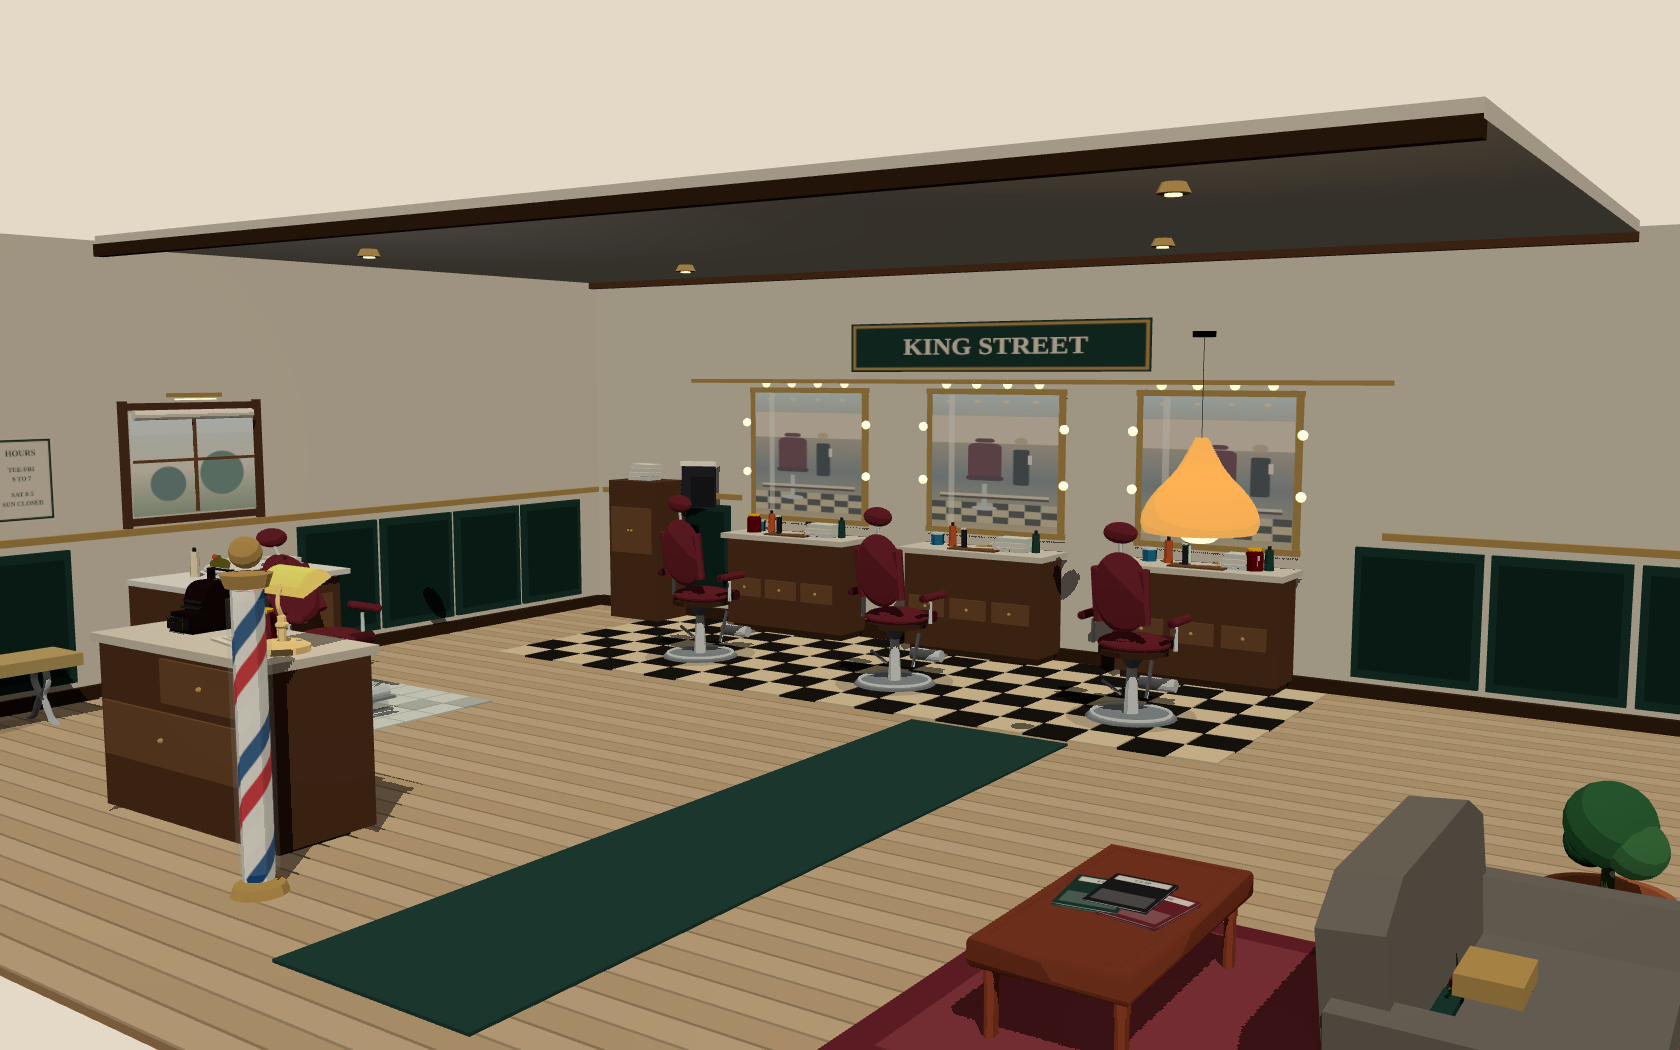
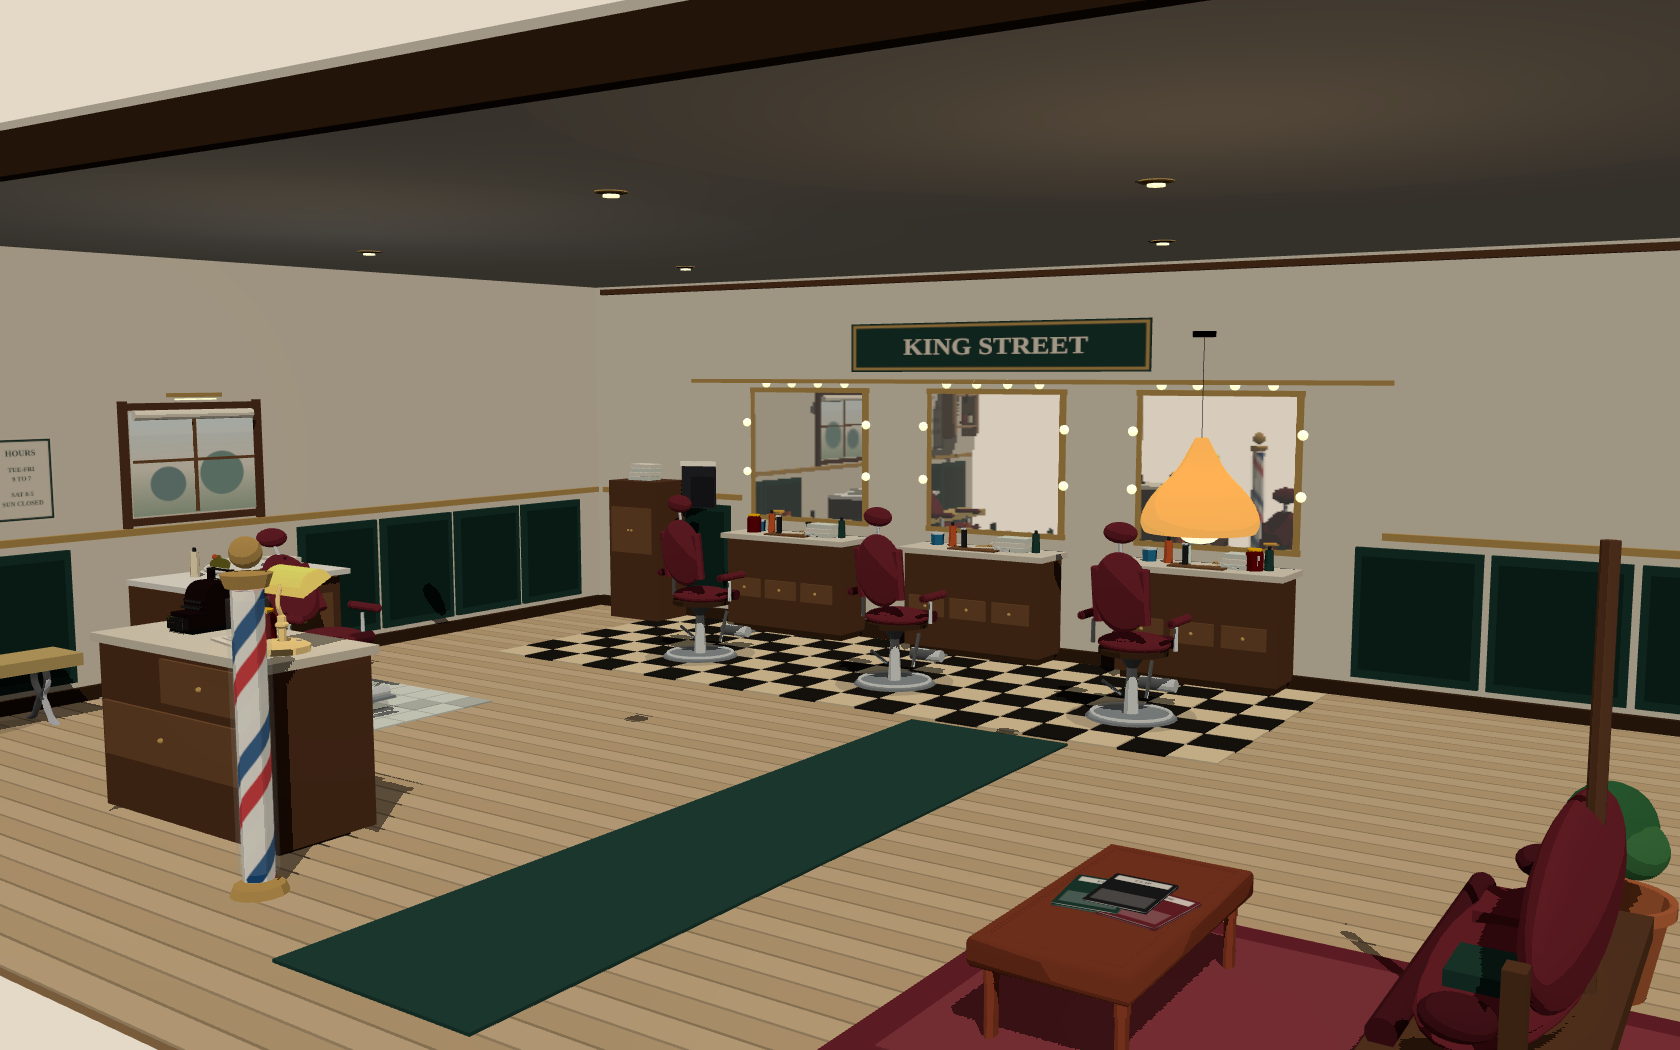
Finish the ceiling, even the station wall, and seat the waiting area.
The roof is a full lid with a fascia on the open edges. Station glass reflects the live room, the back wall no longer takes the jagged chair shadow, and a wood-and-leather settee replaces the gray couch bake.

diff --git a/experiments/indoor-20261113/barbershop/barbershop.js b/experiments/indoor-20261113/barbershop/barbershop.js
@@ -16,6 +16,17 @@ const towel = () => toon('#f7f3ea');
 const bulbMat = () => toon('#fff4d4', { emissive: '#ffe6b0', emissiveIntensity: 1.15 });
 
 const texCache = new Map();
+let stationMirrorRT = null;
+
+function stationMirrorTarget() {
+  if (!stationMirrorRT) {
+    stationMirrorRT = new THREE.WebGLRenderTarget(768, 768, { depthBuffer: true, stencilBuffer: false });
+    stationMirrorRT.texture.colorSpace = THREE.SRGBColorSpace;
+    stationMirrorRT.texture.generateMipmaps = false;
+    stationMirrorRT.texture.minFilter = THREE.LinearFilter;
+  }
+  return stationMirrorRT;
+}
 
 function canvasTex(key, w, h, draw) {
   if (texCache.has(key)) return texCache.get(key);
@@ -349,20 +360,35 @@ function shopWindow(g, wallX) {
   quiet(glow);
 }
 
-function ceilingBay(g, H) {
-  const plaster = toon('#f4eee4');
-  quiet(addBox(g, 8.6, 0.07, 4.7, plaster, -0.45, H - 0.04, -1.05), true);
-  trim(addBox(g, 8.6, 0.08, 0.07, walnutDark(), -0.45, H - 0.1, 1.28));
-  trim(addBox(g, 8.6, 0.06, 0.06, walnut(), -0.45, H - 0.1, -3.38));
-  const cans = [[-2.55, -2.15], [1.35, -2.15], [-3.4, 0.15], [2.4, 0.35]];
+function ceilingBay(g, W, D, H) {
+  const plaster = toon('#f3eee6');
+  const y = H - 0.05;
+  const z0 = -D / 2 + 0.16;
+  const z1 = D / 2 - 0.06;
+  const x0 = -W / 2 + 0.16;
+  const x1 = W / 2 - 0.04;
+  const depth = z1 - z0;
+  const width = x1 - x0;
+  const zc = (z0 + z1) / 2;
+  const xc = (x0 + x1) / 2;
+  quiet(addBox(g, width, 0.08, depth, plaster, xc, y, zc), true);
+  trim(addBox(g, width, 0.16, 0.07, walnutDark(), xc, y - 0.08, z1));
+  trim(addBox(g, 0.07, 0.16, depth, walnutDark(), x1, y - 0.08, zc));
+  trim(addBox(g, width - 0.2, 0.05, 0.05, walnut(), xc, H - 0.14, z0 + 0.02));
+  const cans = [[-2.55, -2.15], [1.35, -2.15], [-3.4, 0.15], [2.4, 0.55], [0.2, 1.6]];
   for (const [x, z] of cans) {
-    addCyl(g, 0.055, 0.08, 0.05, brass(), x, H - 0.1, z, 14);
-    quiet(addCyl(g, 0.04, 0.04, 0.012, toon('#fff1c8', { emissive: '#ffe6b0', emissiveIntensity: 1.15 }), x, H - 0.13, z, 12));
+    addCyl(g, 0.055, 0.08, 0.05, brass(), x, y - 0.02, z, 14);
+    quiet(addCyl(g, 0.04, 0.04, 0.012, toon('#fff1c8', { emissive: '#ffe6b0', emissiveIntensity: 1.15 }), x, y - 0.06, z, 12));
   }
 }
 
 function makeShell(layout) {
   const g = makeCutawayShell(layout, { ceiling: false });
+  const backWall = g.getObjectByName('back-wall');
+  if (backWall) {
+    backWall.userData.noShadow = true;
+    backWall.userData.receiveShadow = false;
+  }
   const { width: W, depth: D, height: H } = layout.meta.room;
   const innerB = -D / 2 + 0.1;
   const innerL = -W / 2 + 0.1;
@@ -402,7 +428,7 @@ function makeShell(layout) {
   board.rotation.y = Math.PI / 2;
   g.add(board);
 
-  ceilingBay(g, H);
+  ceilingBay(g, W, D, H);
   const sign = new THREE.Mesh(new THREE.PlaneGeometry(2.7, 0.4), signBoard());
   sign.position.set(-0.7, 2.5, -3.72);
   g.add(sign);
@@ -562,7 +588,13 @@ function station(g, rec, anchors, variant) {
   const mh = mirrorTop - mirrorBottom;
   const wallZ = -3.78;
 
-  addBox(g, 1.16, mh, 0.02, mirrorTexture(variant), x, my, wallZ);
+  const glassMat = toon('#d5e2e8');
+  const glass = addBox(g, 1.16, mh, 0.018, glassMat, x, my, wallZ + 0.012);
+  glass.name = 'station-mirror';
+  glass.userData.mirror = true;
+  glass.userData.mirrorMatrix = new THREE.Matrix4();
+  glass.userData.mirrorMap = stationMirrorTarget().texture;
+  quiet(glass);
   addBox(g, 1.26, 0.045, 0.04, brass(), x, mirrorTop + 0.02, wallZ);
   addBox(g, 1.26, 0.045, 0.04, brass(), x, mirrorBottom - 0.02, wallZ);
   addBox(g, 0.045, mh + 0.08, 0.04, brass(), x - 0.6, my, wallZ);
@@ -691,16 +723,34 @@ function foliage(g, x, z) {
   addSphere(g, 0.09, toon('#245833'), x - 0.07, 0.55, z - 0.04);
 }
 
-function cushions(g) {
-  // Sofa bounds from the bake: seat toward x=3.72, back toward x=4.58, cushion line near y=0.36.
-  const pads = [
-    [3.92, 0.33, 1.68, '#6e2430'],
-    [3.92, 0.33, 2.02, '#1d3f38'],
-    [4.1, 0.42, 1.85, '#c6a15e'],
-  ];
-  for (const [x, y, z, color] of pads) {
-    addBox(g, 0.2, 0.07, 0.26, toon(color), x, y, z);
+function waitingSettee(g, sofa) {
+  // The catalog couch is a gray modern bake. This wood-and-leather settee
+  // occupies the same footprint and faces -X, toward the coffee table.
+  const x = sofa.position[0];
+  const z = sofa.position[2];
+  const seatY = 0.46;
+  const len = 1.58;
+  const depth = 0.58;
+  for (const sx of [-0.16, 0.2]) {
+    for (const sz of [-0.68, 0.68]) {
+      addCyl(g, 0.032, 0.038, seatY - 0.08, walnutDark(), x + sx, (seatY - 0.08) / 2, z + sz, 10);
+    }
   }
+  addBox(g, depth, 0.08, len, walnut(), x + 0.02, seatY - 0.06, z);
+  const cushion = addSphere(g, 0.22, leather(), x - 0.02, seatY + 0.02, z, 24);
+  cushion.scale.set(1.05, 0.28, 3.35);
+  const roll = addCyl(g, 0.045, 0.045, len - 0.16, leatherDeep(), x - 0.22, seatY + 0.01, z, 14);
+  roll.rotation.x = Math.PI / 2;
+  const back = addSphere(g, 0.2, leather(), x + 0.16, seatY + 0.28, z, 24);
+  back.scale.set(0.55, 1.35, 3.7);
+  addCyl(g, 0.028, 0.028, len + 0.06, walnut(), x + 0.2, seatY + 0.52, z, 12);
+  for (const sz of [-1, 1]) {
+    const arm = addSphere(g, 0.09, leatherDeep(), x - 0.02, seatY + 0.12, z + sz * 0.74, 16);
+    arm.scale.set(1.15, 0.7, 0.85);
+    addBox(g, 0.06, 0.28, 0.08, walnut(), x + 0.12, seatY + 0.16, z + sz * 0.76);
+  }
+  addBox(g, 0.22, 0.06, 0.28, toon('#6e2430'), x - 0.04, seatY + 0.08, z - 0.28);
+  addBox(g, 0.2, 0.05, 0.24, toon('#1d3f38'), x - 0.02, seatY + 0.1, z + 0.32);
 }
 
 function magazines(g, coffee) {
@@ -730,7 +780,7 @@ function makeProcedural(layout) {
   linen(g);
   const pot = layout.instances.find((item) => item.id === 'pot');
   foliage(g, pot.position[0], pot.position[2]);
-  cushions(g);
+  waitingSettee(g, layout.instances.find((item) => item.id === 'sofa'));
   const shelf = layout.instances.find((item) => item.id === 'shelf');
   bottle(g, shelf.position[0] + 0.12, shelf.position[1] + 0.2, shelf.position[2] - 0.1, '#7a3030', 0.12);
   bottle(g, shelf.position[0] + 0.12, shelf.position[1] + 0.2, shelf.position[2] + 0.1, '#efe6c8', 0.1);
@@ -742,8 +792,85 @@ function makeProcedural(layout) {
   return g;
 }
 
+const _mirrorPos = new THREE.Vector3();
+const _camPos = new THREE.Vector3();
+const _normal = new THREE.Vector3();
+const _view = new THREE.Vector3();
+const _look = new THREE.Vector3();
+const _target = new THREE.Vector3();
+const _rot = new THREE.Matrix4();
+const _plane = new THREE.Plane();
+const _clip = new THREE.Vector4();
+const _q = new THREE.Vector4();
+const _virtual = new THREE.PerspectiveCamera();
+const _base = new THREE.Matrix4();
+let _renderingMirror = false;
+
+function updateStationMirrors(renderer, scene, camera) {
+  if (_renderingMirror || !stationMirrorRT) return;
+  const mirrors = [];
+  scene.traverse((obj) => {
+    if (obj.name === 'station-mirror') mirrors.push(obj);
+  });
+  if (!mirrors.length) return;
+  const mirror = mirrors[0];
+  mirror.updateWorldMatrix(true, false);
+  _mirrorPos.setFromMatrixPosition(mirror.matrixWorld);
+  _camPos.setFromMatrixPosition(camera.matrixWorld);
+  _rot.extractRotation(mirror.matrixWorld);
+  _normal.set(0, 0, 1).transformDirection(mirror.matrixWorld);
+  _view.subVectors(_mirrorPos, _camPos);
+  if (_view.dot(_normal) > 0) return;
+  _view.reflect(_normal).negate().add(_mirrorPos);
+  _rot.extractRotation(camera.matrixWorld);
+  _look.set(0, 0, -1).applyMatrix4(_rot).add(_camPos);
+  _target.subVectors(_mirrorPos, _look);
+  _target.reflect(_normal).negate().add(_mirrorPos);
+  _virtual.position.copy(_view);
+  _virtual.up.set(0, 1, 0).transformDirection(camera.matrixWorld).reflect(_normal);
+  _virtual.lookAt(_target);
+  _virtual.far = camera.far;
+  _virtual.near = camera.near;
+  _virtual.fov = camera.fov;
+  _virtual.aspect = camera.aspect;
+  _virtual.updateProjectionMatrix();
+  _virtual.updateMatrixWorld();
+
+  _plane.setFromNormalAndCoplanarPoint(_normal, _mirrorPos);
+  _plane.applyMatrix4(_virtual.matrixWorldInverse);
+  _clip.set(_plane.normal.x, _plane.normal.y, _plane.normal.z, _plane.constant);
+  const pe = _virtual.projectionMatrix.elements;
+  _q.set((Math.sign(_clip.x) + pe[8]) / pe[0], (Math.sign(_clip.y) + pe[9]) / pe[5], -1, (1 + pe[10]) / pe[14]);
+  _clip.multiplyScalar(2 / _clip.dot(_q));
+  pe[2] = _clip.x;
+  pe[6] = _clip.y;
+  pe[10] = _clip.z + 1 - 0.003;
+  pe[14] = _clip.w;
+
+  _base.set(0.5, 0, 0, 0.5, 0, 0.5, 0, 0.5, 0, 0, 0.5, 0.5, 0, 0, 0, 1);
+  _base.multiply(_virtual.projectionMatrix);
+  _base.multiply(_virtual.matrixWorldInverse);
+  for (const item of mirrors) {
+    item.updateWorldMatrix(true, false);
+    item.userData.mirrorMatrix.copy(_base).multiply(item.matrixWorld);
+    item.visible = false;
+  }
+  const prev = renderer.getRenderTarget();
+  const prevAuto = renderer.shadowMap.autoUpdate;
+  renderer.shadowMap.autoUpdate = false;
+  _renderingMirror = true;
+  renderer.setRenderTarget(stationMirrorRT);
+  renderer.clear();
+  renderer.render(scene, _virtual);
+  _renderingMirror = false;
+  renderer.shadowMap.autoUpdate = prevAuto;
+  renderer.setRenderTarget(prev);
+  for (const item of mirrors) item.visible = true;
+}
+
 boot({
   makeShell,
   makeProcedural,
+  beforeRender: updateStationMirrors,
   readyText: 'ready — King Street barbershop · drag orbit · U unlit · T toon',
 });

diff --git a/experiments/indoor-20261113/barbershop/scene_lib.js b/experiments/indoor-20261113/barbershop/scene_lib.js
@@ -86,7 +86,37 @@ export function applyShading(root, mode) {
       obj.castShadow = false;
       obj.receiveShadow = !!obj.userData.receiveShadow;
     }
+    if (obj.userData && obj.userData.mirror) bindStationMirror(obj.material, obj);
   });
+}
+
+function bindStationMirror(material, mesh) {
+  const mirrorMatrix = mesh.userData.mirrorMatrix;
+  const mirrorMap = mesh.userData.mirrorMap;
+  if (!mirrorMatrix || !mirrorMap) return;
+  material.onBeforeCompile = (shader) => {
+    shader.uniforms.mirrorMap = { value: mirrorMap };
+    shader.uniforms.mirrorMatrix = { value: mirrorMatrix };
+    shader.vertexShader = shader.vertexShader
+      .replace('#include <common>', '#include <common>\nuniform mat4 mirrorMatrix;\nvarying vec4 vMirrorCoord;')
+      .replace('#include <project_vertex>', '#include <project_vertex>\n\tvMirrorCoord = mirrorMatrix * vec4(position, 1.0);');
+    shader.fragmentShader = shader.fragmentShader
+      .replace('#include <common>', '#include <common>\nuniform sampler2D mirrorMap;\nvarying vec4 vMirrorCoord;\nvec3 mirrorReflect;')
+      .replace('#include <color_fragment>', `#include <color_fragment>
+        mirrorReflect = vec3(0.62, 0.70, 0.74);
+        {
+          vec2 muv = vMirrorCoord.xy / vMirrorCoord.w;
+          if (muv.x > 0.0 && muv.x < 1.0 && muv.y > 0.0 && muv.y < 1.0) {
+            mirrorReflect = texture2D(mirrorMap, muv).rgb;
+          }
+        }
+        diffuseColor.rgb = mix(diffuseColor.rgb, mirrorReflect, 0.45);
+      `)
+      .replace('#include <opaque_fragment>', `#include <opaque_fragment>
+        gl_FragColor.rgb = mix(gl_FragColor.rgb, mirrorReflect, 0.8);
+      `);
+  };
+  material.customProgramCacheKey = () => `station-mirror-${material.type}`;
 }
 
 export function prepareAsset(scene, targetHeight) {
@@ -190,6 +220,7 @@ export function makeCutawayShell(layout, extra = {}) {
   }
 
   const back = new THREE.Mesh(new THREE.BoxGeometry(W, H, glass ? 0.05 : 0.14), wallMat);
+  back.name = 'back-wall';
   back.position.set(0, H / 2, -D / 2);
   back.receiveShadow = true;
   g.add(back);
@@ -386,6 +417,7 @@ export async function boot(opts) {
         obj.castShadow = false;
       });
     }
+    if (inst.hide) node.visible = false;
     props.add(node);
   }
 
@@ -450,6 +482,7 @@ export async function boot(opts) {
 
   function tick() {
     controls.update();
+    if (opts.beforeRender) opts.beforeRender(renderer, scene, camera);
     renderer.render(scene, camera);
     requestAnimationFrame(tick);
   }

diff --git a/experiments/indoor-20261113/barbershop/QA.md b/experiments/indoor-20261113/barbershop/QA.md
@@ -14,19 +14,18 @@ Headless Chrome, WebGL via SwiftShader, page served from this directory.
 
 | shot | mode | materials | meshes | notes |
 | --- | --- | --- | --- | --- |
-| `shots/toon_default.png` | toon | MeshToonMaterial only | 695 | KING STREET is clear of the soffit, pole sits beside the desk, runner is open |
-| `shots/toon_corner.png` | toon | MeshToonMaterial only | 695 | chair profiles, wash chair at the basin, window and price list, no ceiling disc |
-| `shots/toon_close.png` | toon | MeshToonMaterial only | 695 | padded back and headrest, tools on the consoles, chair and barber painted in the glass |
-| `shots/unlit_default.png` | unlit | MeshBasicMaterial only | 695 | same camera, flat color, bulbs and mirror pictures still read |
+| `shots/toon_default.png` | toon | MeshToonMaterial only | 710 | full ceiling, KING STREET clear, leather settee, pole beside the desk |
+| `shots/toon_corner.png` | toon | MeshToonMaterial only | 710 | chair profiles, wash chair, live mirror of the window and a chair |
+| `shots/toon_close.png` | toon | MeshToonMaterial only | 710 | tools on the console, even plaster, mirror shows the desk and lamp |
+| `shots/unlit_default.png` | unlit | MeshBasicMaterial only | 710 | same camera, flat color, ceiling and mirror reflection still read |
 
 Console had no errors. Network had no failed responses and no host other than `127.0.0.1`. HUD hidden for `?shot=1`.
 
-Screenshot pass: the establishing beam no longer covers the sign, vanity point lights are off the mirror wall, and the left-wall slab is a paned window. The pole stands left of the runner.
+Screenshot pass: the roof is a finished lid with a fascia on the open edges. The back wall does not take the chair's shadow, so the plaster beside the center console stays even. The gray couch bake is hidden; a wood-and-leather settee occupies that footprint. Station glass is a planar reflection of the live room.
 
 ## What still looks rough
 
-- Mirror pictures are painted station silhouettes. They do not reflect the actual chairs.
-- The close headrest is a single cushion on a post. The back is one oval pad, not a tufted channel.
-- A hard chair shadow still breaks across the plaster beside the center console.
-- The loveseat bake is gray cloth. The pendant shade does not cast.
-- Shelf bottles could clip if the GLB shelf boards move.
+- The reflected upper field is a pale wall. The mirror shows the room that is actually in front of the glass, including the desk, lamp, and chair backs.
+- The settee is one leather pad and a wood frame. From the default camera only the near end is in frame.
+- The headrest is still one cushion on a post. The back was left as the oval pad.
+- The pendant shade does not cast. Shelf bottles could clip if the GLB shelf boards move.

diff --git a/experiments/indoor-20261113/barbershop/refs/GAP.md b/experiments/indoor-20261113/barbershop/refs/GAP.md
@@ -1,13 +1,13 @@
 # Gaps
 
 - `sand3d` and `bake_preferred.py` are not in this environment, so nothing new was baked. Barber chairs, the wash chair, basin, mirrors, pole, and counters are procedural solids.
-- Mirrors carry a painted station: chair, barber, counter, and checker. They do not reflect the live scene. A reflection pass is not in the vendored toon path.
+- Station glass is one planar reflection of the live room, shared by the three coplanar mirrors. The pass reuses `MeshToonMaterial` and `MeshBasicMaterial` and projects the render target in the shader. The upper field is pale where the reflection is an empty wall.
 - Jam jars stand in for tonic. They read as red glass with a gold lid, which is the wrong silhouette for a barber bottle, so most product bottles on the counters are procedural.
 - The flowerpot bake is an empty gray vessel. It is tinted and given a procedural plant.
-- The "Basic Red Couch" bake is gray cloth. One brass-colored pad shows on the seat from the default camera; the other two sit further into the seat and are easy to miss.
-- The oak dining chair bake is 0.33 m wide. It is not used. Waiting seats are the loveseat (1.53 m) and the bench (seat 0.46 m, length 1.51 m).
+- The "Basic Red Couch" bake is gray cloth with a modern silhouette. It stays linked and is not drawn. A wood-and-leather waiting settee occupies the same footprint and faces the coffee table.
+- The oak dining chair bake is 0.33 m wide. It is not used. Waiting seats are the wood-and-leather settee and the bench (seat 0.46 m, length 1.51 m).
 - The coffee-table bake is 1.00 × 0.40 × 1.82 m. Plan scale is 0.62 and 0.68 so it fits the loveseat. Height is not scaled.
 - Shelf bottles are placed from the shelf's node heights, not from a measured board. They read on the shelf in the corner shot; a retarget of the GLB could clip them.
-- Contact shadows are flat discs under the chairs, desk, and waiting seats. The pendant shade does not cast. Vanity point lights stay off the mirror wall; a light parked there quantized into a circular blotch. The pole stands left of the runner so the establishing view can see the aisle.
+- Contact shadows are flat discs under the chairs, desk, and waiting seats. The back wall does not receive the key shadow, so a jagged chair shadow no longer breaks the plaster beside the center console. Floor and furniture still receive it. Vanity point lights stay off the mirror wall. The pole stands left of the runner. The ceiling is a full lid with a fascia on the open edges.
 - No people. Clearances are for a standing barber (about 0.6 m) and a seated client, not a posed figure.
 - Unlit mode is real `MeshBasicMaterial`. Bulbs stay bright because emissive is folded into the color. The room is flat on purpose in that mode.
